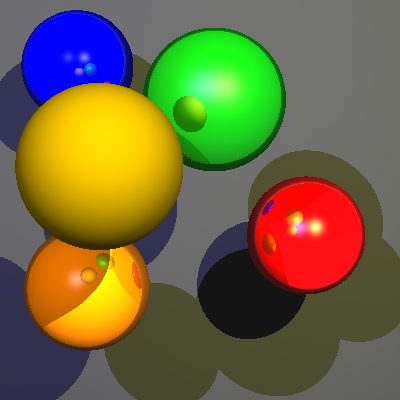
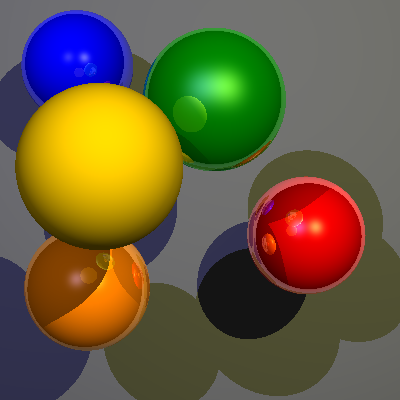
Reflections and SuperSampling working

diff --git a/Lab 2 Raytracer/scene.cpp b/Lab 2 Raytracer/scene.cpp
@@ -53,7 +53,7 @@ Color Scene::trace(const Ray &ray)
     Object *obj = NULL;
     for (unsigned int i = 0; i < objects.size(); ++i) {
         Hit hit(objects[i]->intersect(ray));
-        if (hit.t < min_hit.t) {
+        if (hit.t < min_hit.t && hit.t > 0.0) {
             min_hit = hit;
             obj = objects[i];
         }
@@ -119,9 +119,8 @@ Color Scene::trace(const Ray &ray)
     if (recursiveDepth < maxRecursionDepth && material->ks > 0 ){
 		
 		Vector reflectionVector = 2 * (N.dot(V) * N) - V;
-		reflectionVector.normalize();
 
-		Ray reflection(hit, -reflectionVector);
+		Ray reflection(hit, reflectionVector);
 
         recursiveDepth++;
         color += material->ks * trace(reflection);
@@ -200,7 +199,7 @@ void Scene::render(Image &img)
         for (int j = 0; j < h; j++){
 			for (int i = 0; i < w; i++){
 				Point pixel2(i+0.5, h-1-j+0.5, 0);
-                Ray ray2(eye, (pixel2-eye).normalized());
+                Ray ray2(camera.getEye(), (pixel2-camera.getEye()).normalized());
                 minMaxDepth(ray2);
             }
         }
@@ -208,23 +207,28 @@ void Scene::render(Image &img)
 
     for (int y = 0; y < h; y++) {
         for (int x = 0; x < w; x++) {
-            Point pixel(x+0.5, h-1-y+0.5, 0);
-            Ray ray(eye, (pixel-eye).normalized());
+			Color col;
+			for (int i = 1; i <= sqrt(ssFactor); i++){
+				for (int j = 1; j <= sqrt(ssFactor); j++) {
+					
+					Point pixel(x+ i/(sqrt(ssFactor) + 1), h-1-y+ j/(sqrt(ssFactor) + 1), 0);
+					Ray ray(camera.getEye(), (pixel-camera.getEye()).normalized());
 
-            Color col;
-            if (renderMode == 0) // Phong - this is the default render mode
-				col = trace(ray);
+					if (renderMode == 0) // Phong - this is the default render mode
+						col += trace(ray)/ssFactor;
 			
-            if (renderMode == 1) // z-buffer
-				col = traceZbuffer(ray);
+					if (renderMode == 1) // z-buffer
+						col += traceZbuffer(ray)/ssFactor;;
 				
-            if (renderMode == 2)  
-				col = traceNormal(ray); // normal
-				
-            col.clamp();
-            img(x,y) = col;
+					if (renderMode == 2)  
+						col += traceNormal(ray)/ssFactor;; // normal
+				}
+			}
+			col.clamp();
+			img(x,y) = col;
         }
     }
+    
 }
 
 void Scene::addObject(Object *o)
@@ -258,5 +262,9 @@ void Scene::setMaxRecursionDepth(int m){
 
 void Scene::setSuperSamplingFactor(int ss){
     ssFactor = ss;
+}
+
+void Scene::setCamera(Camera cam) {
+	camera = cam;
 }
 

diff --git a/Lab 2 Raytracer/raytracer.cpp b/Lab 2 Raytracer/raytracer.cpp
@@ -20,6 +20,7 @@
 #include "material.h"
 #include "light.h"
 #include "image.h"
+#include "camera.h"
 #include "yaml/yaml.h"
 #include <ctype.h>
 #include <fstream>
@@ -106,6 +107,26 @@ int parseSuperSampling(const YAML::Node& node){
 	node["factor"] >> x;
 	cout << "SuperSampling factor: " << x << endl;
     return x;
+}
+
+Camera parseCamera(const YAML::Node& node){
+	Camera cam;
+	Triple t;
+	
+	cout << "Eye" << endl;
+	cam.setEye(t);
+	
+	cout << "Center" << endl;
+	cam.setCenter(t);
+	
+	cout << "Up" << endl;
+	cam.setUpVector(t);
+	
+	node["viewSize"] >> t;
+	cam.setWidth(t.x);
+	cam.setHeight(t.y);
+	
+	return cam;
 }
 
 Material* Raytracer::parseMaterial(const YAML::Node& node)
@@ -213,7 +234,7 @@ bool Raytracer::readScene(const std::string& inputFilename)
             }
             catch(const YAML::KeyNotFound e){
                 cout << "Not found...\n";
-                scene->setMaxRecursionDepth(2);
+                scene->setMaxRecursionDepth(0);
             }
             
             // Set super sampling
@@ -223,6 +244,23 @@ bool Raytracer::readScene(const std::string& inputFilename)
             }
             catch(const YAML::KeyNotFound e){
                 scene->setSuperSamplingFactor(1);
+            }
+            
+            // Camera
+            
+            try {
+                scene->setCamera(parseCamera(doc["Camera"]));
+            }
+            catch(const YAML::KeyNotFound e){
+				cout << "No camera defined" << endl;
+				Camera cam;
+				cam.setEye(parseTriple(doc["Eye"]));
+				cam.setCenter(Triple(200,200,0));
+				cam.setUpVector(Triple(0, 1, 0));
+				cam.setHeight(400);
+				cam.setWidth(400);
+				
+				scene->setCamera(cam);
             }
 
             // Read scene configuration options
@@ -268,7 +306,8 @@ bool Raytracer::readScene(const std::string& inputFilename)
 
 void Raytracer::renderToFile(const std::string& outputFilename)
 {
-    Image img(400,400);
+	std::cout << "Width: " << scene->camera.getWidth() << " Height: " << scene->camera.getHeight() << std::endl;
+    Image img(scene->camera.getWidth(),scene->camera.getHeight());
     cout << "Tracing..." << endl;
     scene->render(img);
     cout << "Writing image to " << outputFilename << "..." << endl;

diff --git a/Lab 2 Raytracer/camera.cpp b/Lab 2 Raytracer/camera.cpp
@@ -1,0 +1,41 @@
+#include "camera.h" 
+		
+Triple Camera::getEye() {
+	return eye;
+}
+
+Triple Camera::getCenter() {
+	return center;
+}
+
+Triple Camera::getUpVector() {
+	return upVector;
+}
+
+int Camera::getHeight() {
+	return height;
+}
+
+int Camera::getWidth() {
+	return width;
+}
+		
+void Camera::setEye(Triple t) {
+	eye = t;
+}
+
+void Camera::setCenter(Triple c) {
+	center = c;
+}
+
+void Camera::setUpVector(Triple u) {
+	upVector = u;
+}
+
+void Camera::setHeight(int y) {
+	height = y;
+}
+	
+void Camera::setWidth(int x) {
+	width = x;
+}

diff --git a/Lab 2 Raytracer/camera.h b/Lab 2 Raytracer/camera.h
@@ -1,0 +1,28 @@
+#ifndef CAMERA_H
+#define CAMERA_H
+
+#include "triple.h"
+
+class Camera {
+	private:
+		Triple eye;
+		Triple center;
+		Triple upVector;
+		int height;
+		int width;
+		
+	public:
+		Triple getEye();
+		Triple getCenter();
+		Triple getUpVector();
+		int getHeight();
+		int getWidth();
+		
+		void setEye(Triple t);
+		void setCenter(Triple c);
+		void setUpVector(Triple u);
+		void setHeight(int y);
+		void setWidth(int x);
+};
+
+#endif

diff --git a/Lab 2 Raytracer/scene.h b/Lab 2 Raytracer/scene.h
@@ -22,6 +22,7 @@
 #include "light.h"
 #include "object.h"
 #include "image.h"
+#include "camera.h"
 
 class Scene
 {
@@ -54,6 +55,8 @@ public:
     void setShadow(int s);
     void setMaxRecursionDepth(int m);
     void setSuperSamplingFactor(int ss);
+    void setCamera(Camera cam);
+    Camera camera;
 };
 
 #endif /* end of include guard: SCENE_H_KNBLQLP6 */

diff --git a/Lab 2 Raytracer/sphere.cpp b/Lab 2 Raytracer/sphere.cpp
@@ -66,6 +66,9 @@ Hit Sphere::intersect(const Ray &ray)
 	Triple p = ray.O + t * ray.D;
 
 	Vector N = (p - position).normalized();
-
-	return Hit(t,N);
+	
+//	if (t > 0.0)
+		return Hit(t,N);
+		
+	//return Hit::NO_HIT();
 }
